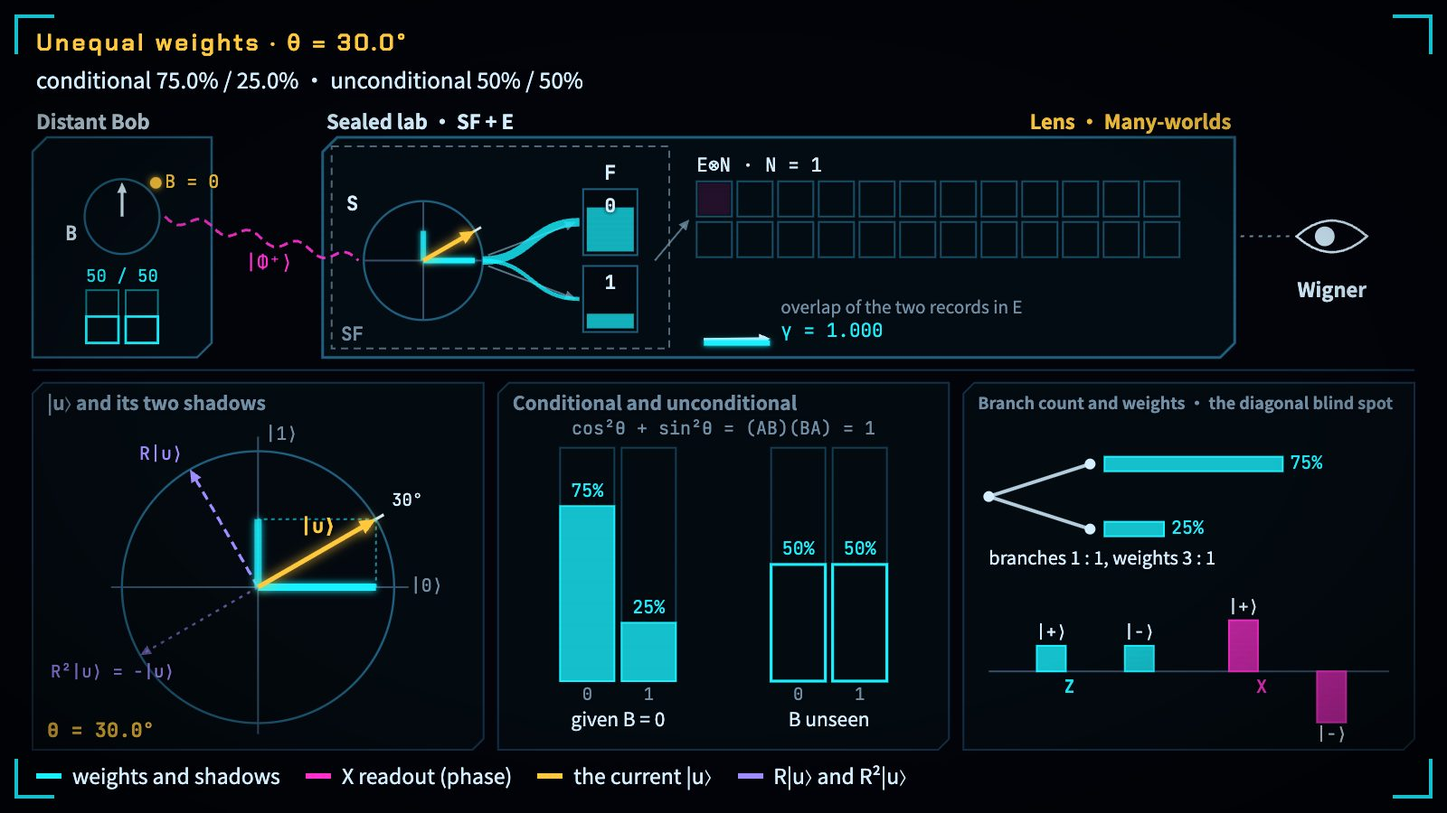
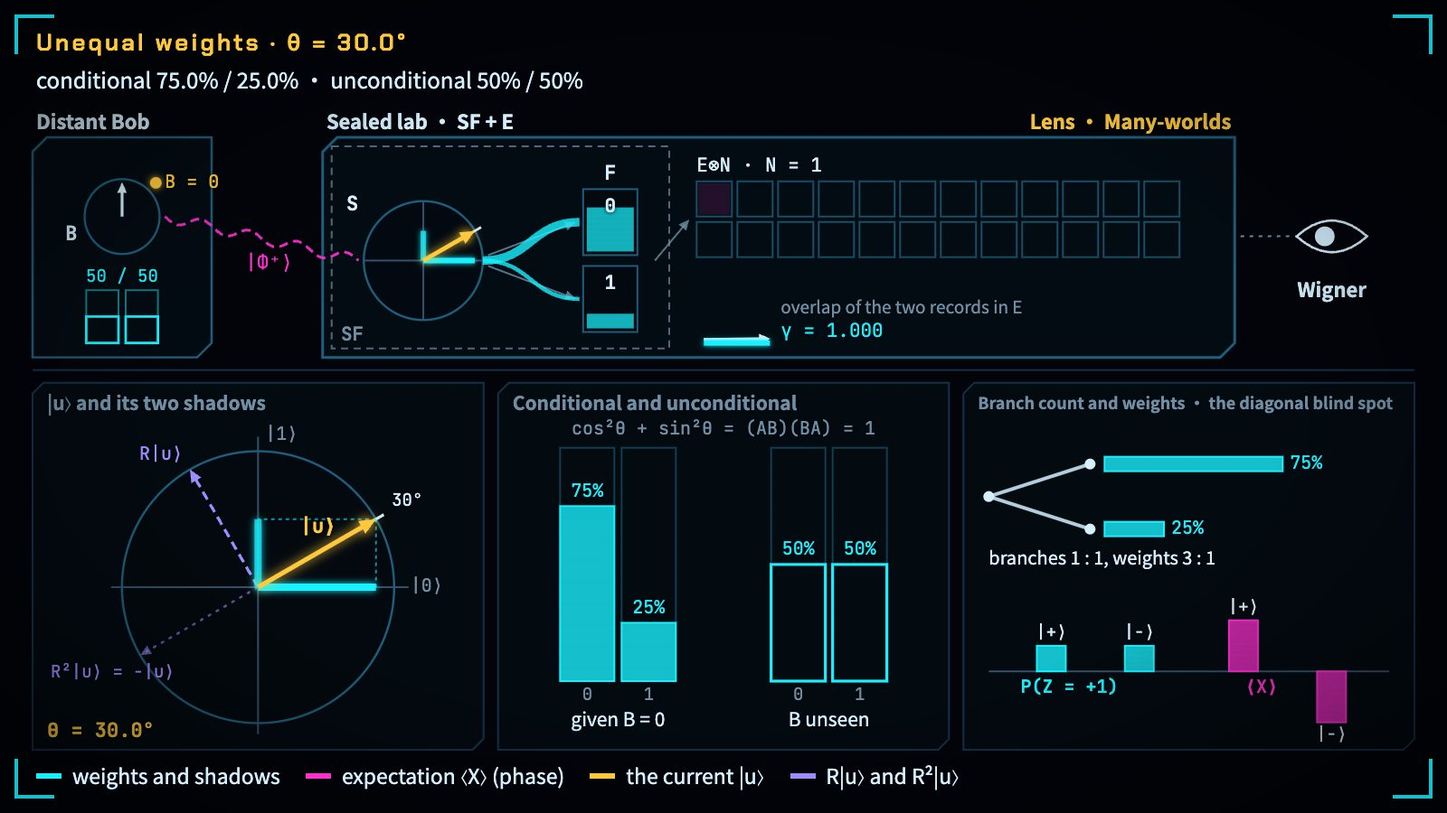
校正附录 D 的统计标签、适用条件与文献归属

Changed region(s): [[0.2188, 0.9333, 0.6562, 0.9644], [0.7188, 0.84, 0.7812, 0.8711]]

diff --git a/books/quantum-geometry/viz/quantum-interpretations-duel/main.js b/books/quantum-geometry/viz/quantum-interpretations-duel/main.js
@@ -111,10 +111,10 @@
     // boost of A = (0, −1), B = (0, +1) in units c = 1, L = 1
     const beta = s.beta, G = 1 / Math.sqrt(1 - beta * beta), ev = (t, x) => [G * (t - beta * x), G * (x - beta * t)];
     const A1 = ev(0, -1), B1 = ev(0, 1), dt = B1[0] - A1[0], dx = B1[1] - A1[1];
-    // squaring and phase: (AB)(BA) for unit A = e₁, B = (c, s); R = [[0, −1], [1, 0]]; |+⟩, |−⟩ on Z and X
+    // squaring and phase: (AB)(BA) for unit A = e₁, B = (c, s); R = [[0, −1], [1, 0]]; |+⟩, |−⟩: probability P(Z = +1), expectation ⟨X⟩
     const AB = [c, sn], BA = [c, -sn], ABBA = cm(AB, BA);
     const R2 = [[0 * 0 + -1 * 1, 0 * -1 + -1 * 0], [1 * 0 + 0 * 1, 1 * -1 + 0 * 0]];
-    const plusZ = 0.5, minusZ = 0.5, plusX = 1, minusX = -1;      // ⟨±|P₀|±⟩ and ⟨±|X|±⟩ of (|0⟩ ± |1⟩)/√2
+    const plusP0 = 0.5, minusP0 = 0.5, plusX = 1, minusX = -1;    // P(Z = +1) = ⟨±|P₀|±⟩ and ⟨X⟩ = ⟨±|X|±⟩ of (|0⟩ ± |1⟩)/√2
     // Robertson–Schrödinger for |u_θ⟩ = (c, s), A = Z, B = X: u = Zψ − ⟨Z⟩ψ, v = Xψ − ⟨X⟩ψ
     const ez = c * c - sn * sn, ex = 2 * c * sn, u = [c - ez * c, -sn - ez * sn], v = [sn - ex * c, c - ex * sn];
     const varZ = u[0] * u[0] + u[1] * u[1], varX = v[0] * v[0] + v[1] * v[1], cov = u[0] * v[0] + u[1] * v[1];
@@ -122,7 +122,7 @@
     return {
       theta: s.theta, c, s: sn, p, q, N, u: s.u, gamma, rho, pinched, purity, deleted, vis, visFull, r2, tangle, S, Hp, dS: Hp - S,
       grw, oneMinusGamma, xi, sel, chshTerms, chsh, margA, margB, condPlus, beta, G, dt, dx, interval: dt * dt - dx * dx,
-      tA: A1[0], tB: B1[0], ABBA, R2, plusZ, minusZ, plusX, minusX, rob, esc: escapeLedger(s.parity)
+      tA: A1[0], tB: B1[0], ABBA, R2, plusP0, minusP0, plusX, minusX, rob, esc: escapeLedger(s.parity)
     };
   }
 
@@ -566,11 +566,11 @@
     dot(tx, ty, 3, P.ink);
     const ratio = ratioStr(D);
     T(tx, ty + (nar ? 28 : 34), L(`分支 1 : 1，权重 ${ratio} : 1`, `branches 1 : 1, weights ${ratio} : 1`), P.ink, { size: fs - 1, max: half - 8 });
-    // |+⟩ and |−⟩: Z readouts ½, ½ (cyan) · X readouts +1, −1 (magenta)
+    // |+⟩ and |−⟩: probabilities P(Z = +1) = ½, ½ (cyan) · expectations ⟨X⟩ = +1, −1 (magenta)
     const px0 = nar ? c.x + half + 6 : c.x + 6, pw = nar ? half - 10 : c.w - 12, py = nar ? c.y + 4 : c.y + c.h * 0.6, ph = nar ? c.h - 20 : c.h * 0.36;
     const mid = py + ph / 2, unit = ph / 2 - 4, cw = Math.max(7, Math.min(16, pw / 9));
     seg(px0, mid, px0 + pw, mid, P.faint, { width: 1 });
-    const bars = [['Z', '+', D.plusZ, P.cyan], ['Z', '−', D.minusZ, P.cyan], ['X', '+', D.plusX, P.magenta], ['X', '−', D.minusX, P.magenta]];
+    const bars = [['P(Z = +1)', '+', D.plusP0, P.cyan], ['P(Z = +1)', '−', D.minusP0, P.cyan], ['⟨X⟩', '+', D.plusX, P.magenta], ['⟨X⟩', '−', D.minusX, P.magenta]];
     bars.forEach(([ob, st, v, col], k) => {
       const x = px0 + pw * (0.12 + k * 0.22) + (k > 1 ? pw * 0.04 : 0);
       rect(x, v >= 0 ? mid - unit * v : mid, cw, unit * Math.abs(v), { fill: col, alpha: 0.78, stroke: col });
@@ -855,7 +855,7 @@
   const LEGEND = {
     cut: () => [SW('cy', '权重（对角）', 'weights (diagonal)'), SW('mg', '相干（非对角）', 'coherence (off-diagonal)'), SW('am', '当前：θ 箭头、透镜、切割', 'now: θ arrow, lens, cut')],
     andor: () => [SW('cy', '权重与 r²', 'weights and r²'), SW('mg', '相干与搬进环境的 τ', 'coherence, τ moved into E'), SW('am', '当前：θ、透镜、抽到的 ξ', 'now: θ, lens, drawn ξ')],
-    born: () => [SW('cy', '权重与影子', 'weights and shadows'), SW('mg', 'X 读数（相位）', 'X readout (phase)'), SW('am', '当前的 |u⟩', 'the current |u⟩'), SW('vi', 'R|u⟩ 与 R²|u⟩', 'R|u⟩ and R²|u⟩')],
+    born: () => [SW('cy', '权重与影子', 'weights and shadows'), SW('mg', 'X 的期望 ⟨X⟩（相位）', 'expectation ⟨X⟩ (phase)'), SW('am', '当前的 |u⟩', 'the current |u⟩'), SW('vi', 'R|u⟩ 与 R²|u⟩', 'R|u⟩ and R²|u⟩')],
     bell: () => [SW('cy', '局部（边缘）', 'local (marginals)'), SW('mg', '关联', 'correlation'), SW('am', '推动后的同时线', 'boosted simultaneity'), SW('vi', '测量轴', 'measurement axes')],
     horizon: () => [SW('cy', '分开的 / 捏合熵', 'separated / pinched entropy'), SW('mg', '逃逸对 / 约化熵', 'escape pairs / reduced entropy'), SW('vi', '余量方向', 'residual direction'), SW('wn', '开放问题', 'open problem')],
     duel: () => [SW('cy', '两行记录的权重', 'weights of the two records'), SW('am', '当前透镜与抽到的一行', 'current lens, drawn row'), SW('vi', 'q 与余量方向', 'q and residual direction'), SW('wn', '开放问题', 'open problem')]
@@ -874,11 +874,11 @@
         keySub: L('留在实验室的长度 + 搬进环境的关联', 'length left in the lab + correlation moved into E'),
         rows: [r(L('纯度 Tr ρ²', 'purity Tr ρ²'), fix(D.purity, 4)), r(L('相干质量 C', 'coherence mass C'), fix(D.deleted, 4), 'm'), r(L('可见度 V', 'visibility V'), fix(D.vis, 4), 'm'),
           r('γ', fix(D.gamma, 4), 'c'), r(L('种子 ξ → 记录', 'seeded ξ → record'), `${fix(D.xi, 3)} → ${D.sel}`, 'a'), r(L('GRW 的 q', 'GRW q'), sci(D.grw, 1))],
-        note: L('γ → 0 时 (r², τ, C, V) → (1/4, 3/4, 0, 0)，纯度 → 5/8：两行都还在，这是“与”。抽出一行是另一步（MODEL）。', 'As γ → 0, (r², τ, C, V) → (1/4, 3/4, 0, 0) and purity → 5/8: both rows are still there, which is AND. Drawing one row is a separate step (MODEL).') };
+        note: L('γ → 0 时 (r², τ, C, V) → ((2p − 1)², 4p(1 − p), 0, 0)，纯度 → p² + (1 − p)²，其中 p = cos²θ（θ = 30° 时即 (1/4, 3/4, 0, 0) 与 5/8）：两行的权重 p、1 − p 都还在，这是“与”。抽出一行是另一步（MODEL）。', 'As γ → 0, (r², τ, C, V) → ((2p − 1)², 4p(1 − p), 0, 0) and purity → p² + (1 − p)², where p = cos²θ (at θ = 30°: (1/4, 3/4, 0, 0) and 5/8): both rows keep their weights p and 1 − p, which is AND. Drawing one row is a separate step (MODEL).') };
       case 'born': return { aside: `θ = ${fix(D.theta, 1)}°`, keyL: L('条件（B = 0）· 无条件', 'conditional (B = 0) · unconditional'), key: `${pct(D.p)} / ${pct(D.q)} · ${pct(D.margA, 0)} / ${pct(1 - D.margA, 0)}`, keyCls: 'c-cy',
         keySub: L(`P(x = +1 | y = +1) = ${fix(D.condPlus, 4)} = cos²θ`, `P(x = +1 | y = +1) = ${fix(D.condPlus, 4)} = cos²θ`),
-        rows: [r('cos²θ + sin²θ', fix(D.p + D.q, 4), 'c'), r('(AB)(BA)', `${fix(D.ABBA[0], 4)} ${D.ABBA[1] >= 0 ? '+' : '−'} ${fix(Math.abs(D.ABBA[1]), 4)}i`), r(L('|+⟩、|−⟩ 的 Z 读数', '|+⟩, |−⟩ on Z'), `${fix(D.plusZ, 2)} · ${fix(D.minusZ, 2)}`, 'c'),
-          r(L('|+⟩、|−⟩ 的 X 读数', '|+⟩, |−⟩ on X'), `${sgn(D.plusX, 0)} · ${sgn(D.minusX, 0)}`, 'm'), r('(ΔZ)²(ΔX)² = C² + K² + G', `${fix(D.rob.prod, 4)} = ${fix(D.rob.C2, 4)} + 0 + ${fix(Math.abs(D.rob.G) < 1e-12 ? 0 : D.rob.G, 4)}`),
+        rows: [r('cos²θ + sin²θ', fix(D.p + D.q, 4), 'c'), r('(AB)(BA)', `${fix(D.ABBA[0], 4)} ${D.ABBA[1] >= 0 ? '+' : '−'} ${fix(Math.abs(D.ABBA[1]), 4)}i`), r(L('|+⟩、|−⟩ 的概率 P(Z\u00a0=\u00a0+1)', '|+⟩, |−⟩: probability P(Z\u00a0=\u00a0+1)'), `${fix(D.plusP0, 2)} · ${fix(D.minusP0, 2)}`, 'c'),
+          r(L('|+⟩、|−⟩ 的期望 ⟨X⟩', '|+⟩, |−⟩: expectation ⟨X⟩'), `${sgn(D.plusX, 0)} · ${sgn(D.minusX, 0)}`, 'm'), r('(ΔZ)²(ΔX)² = C² + K² + G', `${fix(D.rob.prod, 4)} = ${fix(D.rob.C2, 4)} + 0 + ${fix(Math.abs(D.rob.G) < 1e-12 ? 0 : D.rob.G, 4)}`),
           r('R²', `[[${fix(D.R2[0][0], 0)}, ${fix(D.R2[0][1], 0)}], [${fix(D.R2[1][0], 0)}, ${fix(D.R2[1][1], 0)}]] = −I`, 'v')],
         note: L('多世界数分支得 1 : 1，权重却是 cos²θ : sin²θ；为什么按权重下注是文献论证（ARGUED）。不加条件的边缘没有哪个旋钮能动。', 'Many-worlds counts 1 : 1 branches while the weights are cos²θ : sin²θ; why one should bet by weight is argued in the literature (ARGUED). No dial moves the unconditional marginal.') };
       case 'bell': return { aside: `β = ${sgn(D.beta, 2)}`, keyL: 'CHSH S', key: `${fix(D.chsh, 4)} > 2`, keyCls: 'c-mg',
@@ -1014,8 +1014,8 @@
       'N = 1: the amber cut separates S from the friend\'s record F. Below, left: the friend\'s pinched P(ρ) keeps only the cyan diagonal 0.75, 0.25; middle: Wigner with SF alone still sees the magenta −0.433; right: both magenta bars read 0.866, and raising N shrinks only "SF only".'],
     'and-to-or': ['N 涨到 10⁶：环境格被品红填满，γ → 0。左：ρ 的品红非对角消失，青色对角 0.75、0.25 都在，这是“与”；中：青色 r² 缩到 0.25，品红 τ 长到 0.75，合起来始终是 1；右：琥珀色的 ξ = 0.814 ≥ p，抽出记录 1，这一步是模型的抽样。',
       'N grows to 10⁶: the environment fills with magenta and γ → 0. Left: the magenta off-diagonal of ρ vanishes while the cyan 0.75 and 0.25 stay, which is AND; middle: cyan r² falls to 0.25 as magenta τ grows to 0.75, always summing to 1; right: the amber ξ = 0.814 ≥ p draws record 1, a model\'s sampling step.'],
-    'born-unequal': ['琥珀色的 |u⟩ 转到 30° 刻度，青色影子是 cos θ、sin θ，紫色虚线是 R|u⟩ 与 R²|u⟩ = −|u⟩。中：给定 B = 0，实心柱 75%、25%；不看 B，空心柱 50%、50%。右：两支分支 1 : 1，权重 3 : 1；|+⟩、|−⟩ 的青色 Z 读数都是 ½，只有品红的 X 读数分出 +1、−1。',
-      'The amber |u⟩ turns to the 30° mark; the cyan shadows are cos θ and sin θ, the dashed violet arrows R|u⟩ and R²|u⟩ = −|u⟩. Middle: given B = 0 the solid columns read 75%, 25%; with B unseen the hollow ones read 50%, 50%. Right: two branches 1 : 1, weights 3 : 1; on Z, |+⟩ and |−⟩ both read ½, only the magenta X splits +1, −1.'],
+    'born-unequal': ['琥珀色的 |u⟩ 转到 30° 刻度，青色影子是 cos θ、sin θ，紫色虚线是 R|u⟩ 与 R²|u⟩ = −|u⟩。中：给定 B = 0，实心柱 75%、25%；不看 B，空心柱 50%、50%。右：两支分支 1 : 1，权重 3 : 1；|+⟩、|−⟩ 的青色概率 P(Z\u00a0=\u00a0+1) 都是 ½，只有品红的期望 ⟨X⟩ 分出 +1、−1。',
+      'The amber |u⟩ turns to the 30° mark; the cyan shadows are cos θ and sin θ, the dashed violet arrows R|u⟩ and R²|u⟩ = −|u⟩. Middle: given B = 0 the solid columns read 75%, 25%; with B unseen the hollow ones read 50%, 50%. Right: two branches 1 : 1, weights 3 : 1; cyan P(Z\u00a0=\u00a0+1) = ½ for |+⟩ and |−⟩; only the magenta ⟨X⟩ splits +1, −1.'],
     'bell-epr': ['β 推到 +0.6：时空图里 A、B 类空分离，琥珀色的同时线倾斜，先后翻成“B 先于 A”，Δt′ = −1.50。左：紫色四轴是 CHSH 的设置，品红叠到 2.83，越过虚线 2，推动中不动。右：青色的 6 个局部格全是 0（边缘 50/50），关联全在品红的 3 × 3 格里。',
       'β is pushed to +0.6: A and B are spacelike, the amber lines of simultaneity tilt and the order flips to "B before A", Δt′ = −1.50. Left: the violet CHSH axes; magenta stacks to 2.83, past the dashed 2, unmoved by the boost. Right: the six cyan local cells are all 0 (marginals 50/50); the correlation sits in the magenta 3 × 3.'],
     'time-horizon': ['N 涨到 10⁴。左：整体的熵停在 0，品红的约化熵涨到 0.729 比特，青色的捏合熵 0.811，差 ΔS = 0.082。中：16 个态排成 8 列，每列两点由品红线连成逃逸对，共 16 对、1 比特；选“+ 奇偶”线全断开。右：紫色的 e 垂直于青色的层 S；红框是开放问题。',

diff --git a/books/quantum-geometry/en/appendix-d.md b/books/quantum-geometry/en/appendix-d.md
@@ -139,7 +139,7 @@ Setting $\beta = +0.6$ by default, the fourth preset card illustrates tilted sim
 **Literature result, not formalized in this book (for the Harrigan–Spekkens ontological model taxonomy and the PBR theorem; diagonal self-application fixed points, concept fiber decomposition, and diagonal phase blindness appear in the `LEAN ✓` links below).**
 
 1. **Mainstream Physical Dilemma (`Literature`)**:
-   - **High-Dimensional Configuration-Space Field Dilemma**: Within the ontological model framework of Harrigan and Spekkens (2010), treating the wave function as a literal physical field (**$\psi$-ontic**) means an $N_{\mathrm{p}}$-particle wave lives in $3N_{\mathrm{p}}$-dimensional configuration space (or $2^{N_{\mathrm{p}}}$-dimensional tensor space) rather than 3D space, making instantaneous collapse inscrutable.
+   - **High-Dimensional Configuration-Space Field Dilemma**: In the ontological model taxonomy of Harrigan and Spekkens (2010), **$\psi$-ontic** means that the ontic probability distributions associated with distinct pure quantum states have disjoint supports. If one further treats the wave function as a literal physical field, the position wave function of $N_{\mathrm{p}}$ particles in three spatial dimensions depends on $3N_{\mathrm{p}}$ configuration coordinates rather than just a three-dimensional position ($2^{N_{\mathrm{p}}}$ instead counts the Hilbert-space dimension of a tensor product of $N_{\mathrm{p}}$ two-level subsystems, or qubits, a different notion of dimension), making instantaneous collapse of the high-dimensional wave field inscrutable.
    - **Scope and Assumptions of the PBR No-Go Theorem**: Conversely, treating $\psi$ as mere Bayesian ignorance over underlying ontic states (**$\psi$-epistemic**) confronts the **PBR theorem** of Pusey, Barrett, and Rudolph (*Nature Physics* 2012): assuming objective underlying ontic states $\lambda$ and the Cartesian **Preparation Independence Postulate** for independently prepared systems, epistemic distributions for distinct pure quantum states cannot overlap—ruling out naive ignorance models over fixed $\lambda$ substrates (note: relational frameworks rejecting fixed $\lambda$ substrates or preparation independence lie outside PBR's direct scope).
 2. **Orthogonal Open-Dimension Diagnosis (`LEAN ✓` + `MODEL`)**:
    - **Diagonal Landing Fixed Point and Concept Fiber Equivalence**: The "ontic wave vs. subjective ignorance" dichotomy presupposes pre-existing substrate pebbles $\lambda$ independent of relational interfaces. In the endogenous self-referential architecture of [Chapter 38](ch38-observer-memory-pointer-and-ontological-qram.md) and [Chapter 39](ch39-observer-is-ontological-universe.md), whenever row $a_0$ of $g : A \to A \to Y$ captures `diagonal f g`, its diagonal self-application entry is forced to be a fixed point ([`diagonal_landing_fixed`](lean:D5/S0/Diagonal/EscapeCount.diagonal_landing_fixed), `LEAN ✓`, [@thm-ch38-self-mapped-diagonal-fixed-point]; fourfold self-application fates [`self_application_four_fates`](lean:D5/S0/Diagonal/SelfApplicationFates.self_application_four_fates), [@thm-ch39-self-application-four-fates-and-diagonal-identity]), and every readout $q_C : X \to B$ decomposes the source space into the dependent sigma type of its fibers ([`concept_fiber_decomposition`](lean:D5/S3/ConceptDynamics/ConceptFiberDecomposition.concept_fiber_decomposition), `LEAN ✓`, [@thm-ch39-fiber-reconstruction-and-zeckendorf-thread]):
@@ -217,7 +217,7 @@ $$
 The foundational literature supporting the six puzzles and six-way comparison is organized thematically below:
 
 - **Measurement Chain and Self-Referential Observers**: von Neumann (1932) *Mathematical Foundations of Quantum Mechanics* on Process I/II; Wigner (1961) sealed-lab friend paradox; Frauchiger & Renner (*Nat. Commun.* 9, 3711, 2018) extended-agent no-go theorem.
-- **Environment-Induced Decoherence and Single-Outcome Boundaries**: Zurek (*Rev. Mod. Phys.* 75, 715, 2003) on einselection and pointer bases; Schlosshauer (*Rev. Mod. Phys.* 77, 1279, 2005) on why decoherence alone does not solve the single-outcome problem.
+- **Environment-Induced Decoherence and Single-Outcome Boundaries**: Zurek (*Rev. Mod. Phys.* 75, 715, 2003) on einselection and pointer bases; Schlosshauer (*Rev. Mod. Phys.* 76, 1267, 2005) on why decoherence alone does not solve the single-outcome problem.
 - **Born Trace Rule and Experimental Tests of Complex Hilbert Space**: Jordan & von Neumann (*Ann. Math.* 36, 719, 1935) parallelogram converse; Gleason (*J. Math. Mech.* 6, 885, 1957) $d \ge 3$ subspace measure theorem; Renou et al. (*Nature* 600, 625–629, 2021) theoretical three-node network separation protocol and experimental tests by Chen et al. (*Phys. Rev. Lett.* 128, 040403, 2022) and Li et al. (*Phys. Rev. Lett.* 128, 040402, 2022) under independent local tensor sources.
 - **Bell Nonlocality and Relativistic No-Signaling**: Einstein–Podolsky–Rosen (1935); Bell (*Physics* 1, 195, 1964); Tsirelson (*Lett. Math. Phys.* 4, 93, 1980) quantum bound $2\sqrt{2}$; Eberhard (*Nuovo Cimento B* 46, 392, 1978) trace-preserving local no-signaling theorem; Hensen et al., Giustina et al., and Shalm et al. (2015) loophole-free Bell tests.
 - **Ontological Models and Primary School Sources**: Harrigan & Spekkens (*Found. Phys.* 40, 125, 2010) $\psi$-ontic / $\psi$-epistemic definitions; Pusey–Barrett–Rudolph (*Nat. Phys.* 8, 475, 2012) non-overlap theorem under preparation independence; Everett (1957), Bohm (1952), Ghirardi–Rimini–Weber (1986), Penrose (1996), Rovelli (1996), and Fuchs–Mermin–Schack (2014).
@@ -251,7 +251,7 @@ Literature result, not formalized in this book: every entry marked `LEAN ✓` wi
 | D.6 | Puzzle 2 | Complementary-context purity Pythagoras & residual mass | Under explicit purity and visible coordinate hypotheses, $\operatorname{Tr}(\rho^2) - d^{-1} = \sum_{l,j}(p_{l,j}-d^{-1})^2 + \operatorname{residualMass}$ | `LEAN ✓` ([`complementary_context_probability_pythagoras`](lean:D5/S3/Quantum/Tomography/ComplementaryContextProbabilityPythagoras.complementary_context_probability_pythagoras); [Ch 9](ch09-axes-and-state-addressing.md), [Ch 39](ch39-observer-is-ontological-universe.md)) |
 | D.7 | Puzzle 3 | Forward parallelogram norm law in real inner-product spaces | $\lVert x + y\rVert^2 + \lVert x - y\rVert^2 = 2(\lVert x\rVert^2 + \lVert y\rVert^2)$ | `LEAN ✓` ([`inner_product_norm_parallelogram_law`](lean:D5/S3/QuantumContext/ParallelogramNormLaw.inner_product_norm_parallelogram_law); [Ch 1](ch01-measurement.md), [Ch 27](ch27-reading-frozen-proofs-i.md)) |
 | D.8 | Puzzle 3 | Rank-one pure-state & projector Born modulus-square reduction | $\operatorname{recordWeight}(P, \rho, k) = \lVert\langle\varphi, \psi\rangle\rVert^2$ for rank-one outer-product states and projectors | `LEAN ✓` ([`rank_one_pure_state_modulus_square_reduction`](lean:D5/S3/Observer/BornReduction.rank_one_pure_state_modulus_square_reduction); [Ch 2](ch02-born-rule.md), [Ch 28](ch28-reading-frozen-proofs-ii.md)) |
-| D.9 | Puzzle 3 | Complete common-phase invariant polynomial theorem | Phase invariance $\iff$ charge balance; nonconstant degree $\ge 2$; real degree-$2$ invariants uniquely $z^\dagger H z$ | `LEAN ✓` ([`complete_common_phase_polynomial_theorem`](lean:D5/S3/Quantum/Algebra/CommonPhasePolynomial.complete_common_phase_polynomial_theorem); [Ch 31](ch31-quantum-fairness.md#sec-ch31-fairness-square-expansion)) |
+| D.9 | Puzzle 3 | Complete common-phase invariant polynomial theorem | Phase invariance $\iff$ charge balance; nonconstant degree $\ge 2$; real-valued homogeneous degree-$2$ invariants uniquely $z^\dagger H z$ | `LEAN ✓` ([`complete_common_phase_polynomial_theorem`](lean:D5/S3/Quantum/Algebra/CommonPhasePolynomial.complete_common_phase_polynomial_theorem); [Ch 31](ch31-quantum-fairness.md#sec-ch31-fairness-square-expansion)) |
 | D.10 | Puzzle 3 | Skew-adjoint unitary matrix squaring to $-I$ | $R^{\mathrm{H}} = -R \land R R^{\mathrm{H}} = I \implies R^2 = -I$ | `LEAN ✓` ([`square_eq_neg_one_of_skewAdjoint_unitary`](lean:D5/S3/Quantum/Algebra/Unitary/BalancedUnitaryComplexStructure.square_eq_neg_one_of_skewAdjoint_unitary); [Ch 5](ch05-complex-phase-and-rotors.md), [App B](appendix-b.md)) |
 | D.11 | Puzzle 3 | Four-clause Robertson–Schrödinger variance identity | Symmetric operator variance product $\lVert u\rVert^2\lVert v\rVert^2 = C^2 + \lVert K\rVert^2 + G$ with $G \ge 0$ | `LEAN ✓` ([`robertson_schrodinger`](lean:D5/S3/QuantumBounds/RobertsonSchrodinger.robertson_schrodinger); [Ch 6](ch06-geometric-product.md), [Ch 31](ch31-quantum-fairness.md#sec-ch31-fairness-square-expansion)) |
 | D.12 | Puzzle 4 | Tight Tsirelson upper bound for fixed two-qubit CHSH | Over PSD unit-trace two-qubit states, $\operatorname{Re}\operatorname{Tr}(\rho \cdot \mathrm{chshOperator})$ has `IsGreatest` value $2\sqrt{2}$ | `LEAN ✓` ([`bell_chsh_state_expectation_is_greatest`](lean:D5/S3/QuantumBounds/TsirelsonTightness.bell_chsh_state_expectation_is_greatest); [Ch 13](ch13-entanglement-and-chsh.md)) |

diff --git a/books/quantum-geometry/zh/appendix-d.md b/books/quantum-geometry/zh/appendix-d.md
@@ -139,7 +139,7 @@
 **文献结果，未在本书形式化（针对 Harrigan–Spekkens 本体模型分类与 PBR 定理；对角自指落点不动点、概念纤维分解与对角相位盲区见下引 `LEAN ✓` 链接）。**
 
 1. **主流物理困境（`文献结果`）**：
-   - **高维配置空间实体波之困**：在 Harrigan 与 Spekkens（2010）的本体模型分类中，若采信波函数是客观物理场（**$\psi$-ontic**），则 $N_{\mathrm{p}}$ 个粒子的波函数生活在 $3N_{\mathrm{p}}$ 维配置空间（或 $2^{N_{\mathrm{p}}}$ 维张量空间）而非三维物理空间中，测量瞬间高维波场如何坍缩令人生疑。
+   - **高维配置空间实体波之困**：在 Harrigan 与 Spekkens（2010）的本体模型分类中，**$\psi$-ontic** 指不同纯量子态对应的本体概率分布具有互不重叠的支持。若进一步采信波函数是客观物理场，则三维空间中 $N_{\mathrm{p}}$ 个粒子的位置波函数依赖 $3N_{\mathrm{p}}$ 个配置坐标，而非仅依赖三维位置（$2^{N_{\mathrm{p}}}$ 则是 $N_{\mathrm{p}}$ 个两能级子系统，即量子比特的张量积希尔伯特空间维数，与配置坐标数不同），测量瞬间高维波场如何坍缩令人生疑。
    - **PBR 不可能性定理的假设边界**：若采信波函数仅代表观察者对底层隐状态不完全了解的贝叶斯信念度（**$\psi$-epistemic**），2012 年 Pusey、Barrett 与 Rudolph 提出的 **PBR 定理**（*Nature Physics* 2012）证明：在假定存在客观底层实体态 $\lambda$ 且独立制备系统满足笛卡尔乘积**制备独立性公设（Preparation Independence Postulate）**的前提下，不同纯量子态对应的底层概率分布不能重叠——从而排除了固定底层实体态上的朴素统计无知模型（注：放弃固定底层 $\lambda$ 本体框架或制备独立性公设的关系方案不在 PBR 直接排除之列）。
 2. **正交开维几何对勘（`LEAN ✓` + `MODEL`）**：
    - **对角自指落点与概念纤维等价**：“实体波 vs. 主观无知”预设了先有独立于测量关系的绝对底层颗粒 $\lambda$。在 [第 38 章](ch38-observer-memory-pointer-and-ontological-qram.md) 与 [第 39 章](ch39-observer-is-ontological-universe.md) 的内生自指框架中，一旦表 $g : A \to A \to Y$ 在某行 $a_0$ 捕获关于 $f$ 的对角函数，其自应用格点必然成为不动点（[`diagonal_landing_fixed`](lean:D5/S0/Diagonal/EscapeCount.diagonal_landing_fixed)，`LEAN ✓`，[@thm-ch38-self-mapped-diagonal-fixed-point]；二元分式自应用四重命运见 [`self_application_four_fates`](lean:D5/S0/Diagonal/SelfApplicationFates.self_application_four_fates)，[@thm-ch39-self-application-four-fates-and-diagonal-identity]），且任何读出映射 $q_C : X \to B$ 都将源空间等价分解为其观测纤维的依值直和（[`concept_fiber_decomposition`](lean:D5/S3/ConceptDynamics/ConceptFiberDecomposition.concept_fiber_decomposition)，`LEAN ✓`，[@thm-ch39-fiber-reconstruction-and-zeckendorf-thread]）：
@@ -217,7 +217,7 @@ $$
 支撑上述六题与六行对照的核心奠基文献按议题归纳如下：
 
 - **测量链与自指观察者**：von Neumann（1932）《量子力学的数学基础》过程 I/II 区分；Wigner（1961）密封实验室朋友悖论；Frauchiger & Renner（*Nat. Commun.* 9, 3711, 2018）扩展主体推理相容性不可能性定理。
-- **环境诱导退相干与单一结果边界**：Zurek（*Rev. Mod. Phys.* 75, 715, 2003）环境超选择与指针基；Schlosshauer（*Rev. Mod. Phys.* 77, 1279, 2005）关于退相干本身不导出单一结果的系统评述。
+- **环境诱导退相干与单一结果边界**：Zurek（*Rev. Mod. Phys.* 75, 715, 2003）环境超选择与指针基；Schlosshauer（*Rev. Mod. Phys.* 76, 1267, 2005）关于退相干本身不导出单一结果的系统评述。
 - **玻恩迹规则与复希尔伯特空间实验检验**：Jordan & von Neumann（*Ann. Math.* 36, 719, 1935）平行四边形逆定理；Gleason（*J. Math. Mech.* 6, 885, 1957）$d \ge 3$ 投影测度定理；Renou et al.（*Nature* 600, 625–629, 2021）独立局域张量源三节点网络判据与 Chen et al.（*Phys. Rev. Lett.* 128, 040403, 2022）、Li et al.（*Phys. Rev. Lett.* 128, 040402, 2022）的实验检验。
 - **贝尔非定域性与相对论无信令**：Einstein–Podolsky–Rosen（1935）；Bell（*Physics* 1, 195, 1964）；Tsirelson（*Lett. Math. Phys.* 4, 93, 1980）量子上界 $2\sqrt{2}$；Eberhard（*Nuovo Cimento B* 46, 392, 1978）保迹局域操作无信令定理；Hensen et al.、Giustina et al.、Shalm et al.（2015）无漏洞贝尔实验。
 - **波函数本体模型与五大流派原始文献**：Harrigan & Spekkens（*Found. Phys.* 40, 125, 2010）$\psi$-ontic / $\psi$-epistemic 严格定义；Pusey–Barrett–Rudolph（*Nat. Phys.* 8, 475, 2012）制备独立性下非重叠定理；Everett（1957）、Bohm（1952）、Ghirardi–Rimini–Weber（1986）、Penrose（1996）、Rovelli（1996）与 Fuchs–Mermin–Schack（2014）。

diff --git a/skills/local-content-accuracy/SKILL.md b/skills/local-content-accuracy/SKILL.md
@@ -20,7 +20,7 @@ For a full audit, apply all steps to each requested unit. For a bounded repair, 
 3. Independently recompute material numerical claims and inspect literature attribution, physical protocol assumptions, and epistemic level. Separate Lean results, literature results, author interpretation, and open questions. Record unresolved provenance as a limitation instead of silently strengthening the text.
    For quantitative claims, trace the stated bound or behavior across the actual supported control domain and every existing reader-facing consumer; do not infer the mathematical domain from a preset, display range, or a severely truncated example.
 
-When reviewing interactive controls, treat combinations of controls and selector precedence as part of the supported domain: a preset can set several controls, and later reader changes can override one while leaving the others in force. If a lock or intake excerpt shows a truncated declaration signature, compare it with the complete exact-pin declaration before changing a correct assertion.
+When reviewing interactive controls, treat combinations of controls and selector precedence as part of the supported domain: a preset can set several controls, and later reader changes can override one while leaving the others in force. A note, caption or readout that stays visible after such an override must hold for the overridden state: qualify a fixed example with its preset condition or state the general expression, and keep the correct example. A label must name both the observable and the statistic shown: an outcome probability such as P(Z = +1) is not the expectation ⟨Z⟩, so a correct number under the wrong statistic is fixed by relabelling it, not by changing the number. If a lock or intake excerpt shows a truncated declaration signature, compare it with the complete exact-pin declaration before changing a correct assertion.
 4. Classify findings as confirmed, advisory, or discarded. Fix only confirmed inaccuracies and necessary bilingual mismatches. Edit Chinese first, then make the English accurate and idiomatic. Keep chapter order, stable IDs, GIDs, media order, and proof-boundary conventions unchanged.
 5. Run the smallest meaningful checks while iterating, then validate the completed patch. At minimum use `./tbook check`; for output changes build the affected HTML/PDF/EPUB/site targets, run EPUBCheck, validate changed SVG/XML, and inspect relevant desktop/mobile and theme combinations. Changed labs also need the current project’s browser tests, visual inspection and refreshed cited stills. Record actual failures and limits. Identify evidence by input HEAD plus changed paths/digests when uncommitted, or by committed candidate when available.
 6. Obtain the project’s independent architecture, quality and tests reviews through the designated review owner. An implementation handoff records review as pending when the caller owns orchestration. Every blocking finding must be closed, and approval must cover the candidate’s final relevant inputs; earlier approval is reusable only within the documented unchanged dependency boundary.
